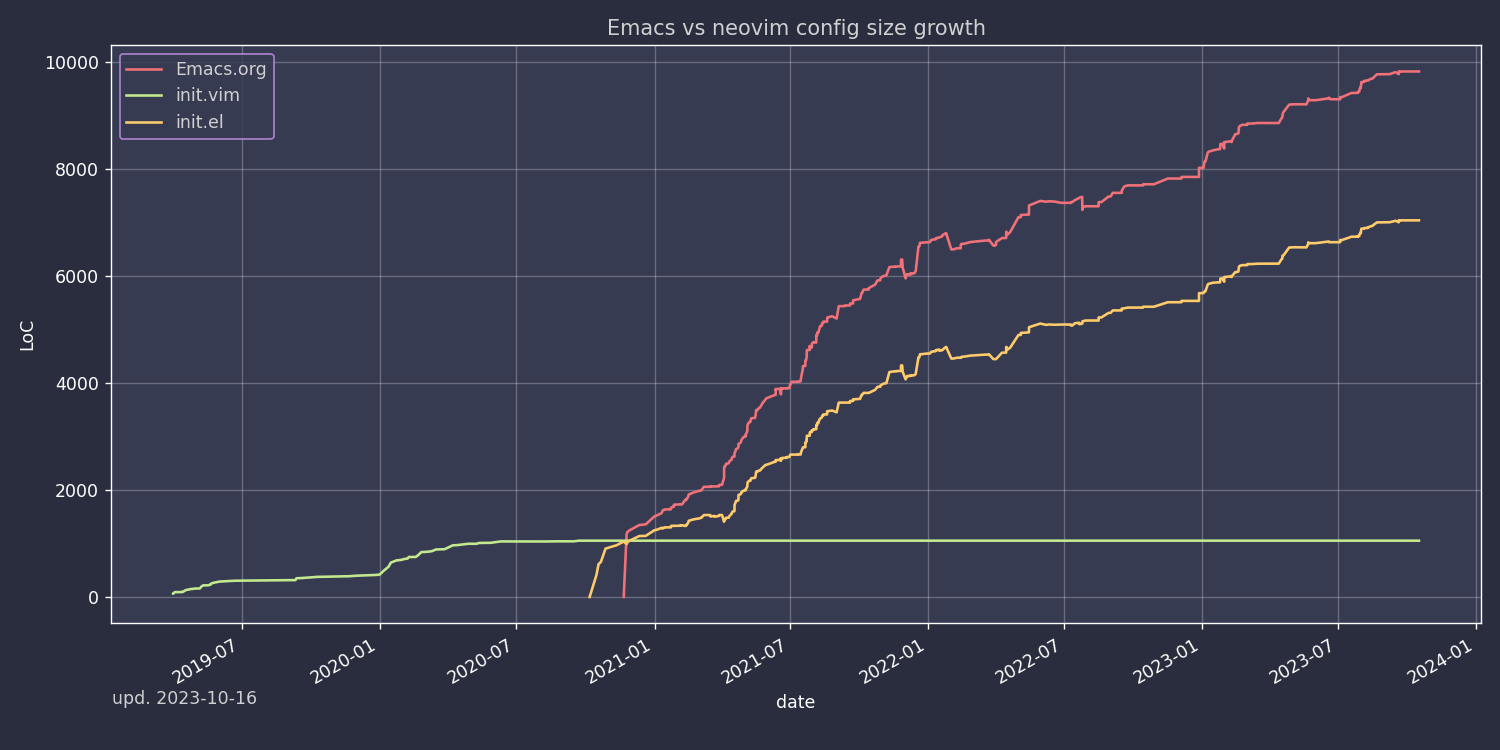
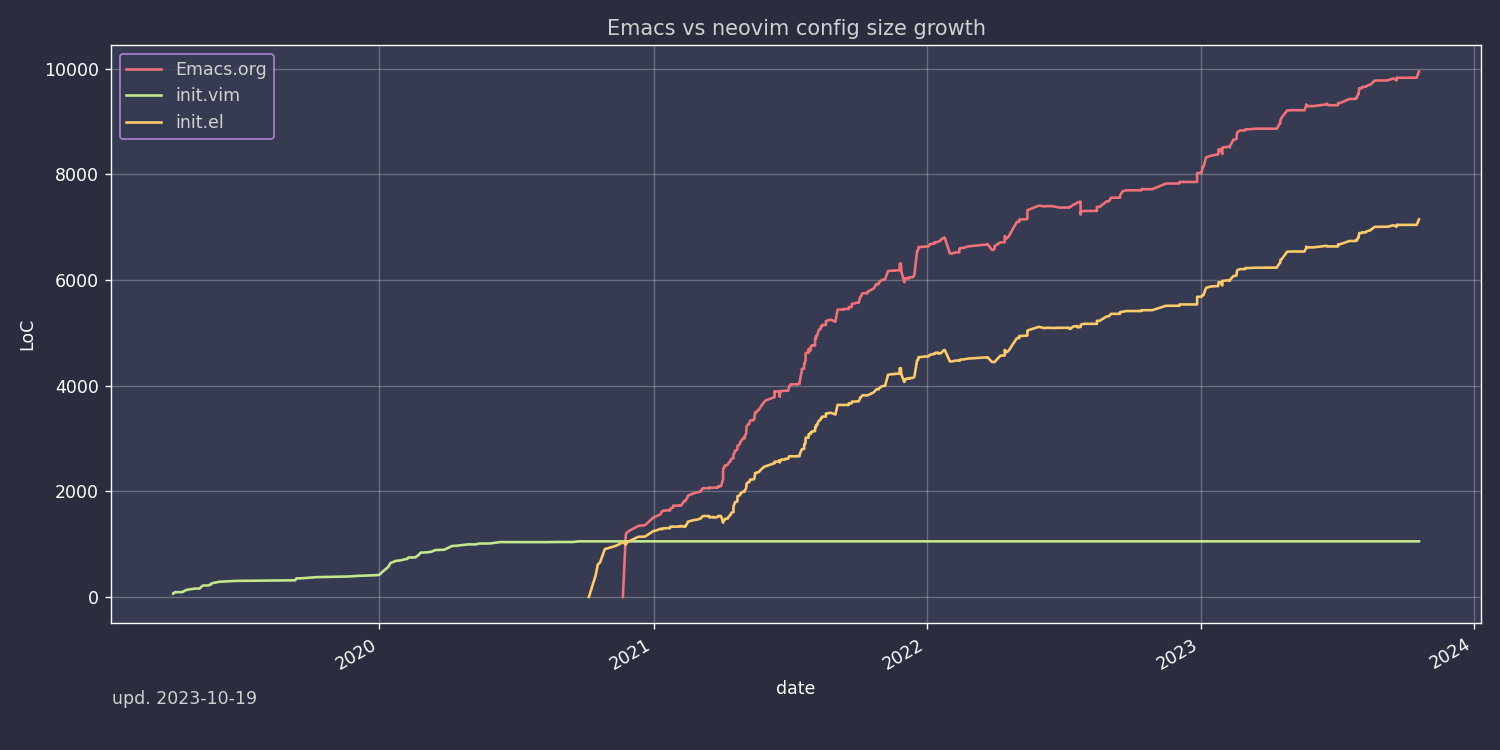
deploy: ec9d4f60e5a25ce1c0262b4c3c3db14015a5740e

diff --git a/configs/emacs/index.html b/configs/emacs/index.html
@@ -921,6 +921,12 @@ Emacs is also particularly great at writing Lisp code, e.g. Clojure, Common Lisp
 </span></span><span style="display:flex;"><span>   <span style="color:#ba2121">&#34;M-k&#34;</span> <span style="color:#00f">#&#39;</span><span style="color:#19177c">popup-previous</span>)
 </span></span><span style="display:flex;"><span>  (<span style="color:#008000">setq</span> <span style="color:#19177c">accent-custom</span> <span style="color:#666">&#39;</span>((<span style="color:#19177c">a</span> (<span style="color:#19177c">ā</span>))
 </span></span><span style="display:flex;"><span>			(<span style="color:#19177c">A</span> (<span style="color:#19177c">Ā</span>)))))
+</span></span></code></pre></div><h5 id="binky">binky</h5>
+<p>Experimenting with this package.</p>
+<div class="highlight"><pre tabindex="0" style=";-moz-tab-size:4;-o-tab-size:4;tab-size:4;"><code class="language-emacs-lisp" data-lang="emacs-lisp"><span style="display:flex;"><span>(<span style="color:#008000">use-package</span> <span style="color:#19177c">binky</span>
+</span></span><span style="display:flex;"><span>  <span style="color:#008000">:straight</span> <span style="color:#800">t</span>
+</span></span><span style="display:flex;"><span>  <span style="color:#008000">:init</span>
+</span></span><span style="display:flex;"><span>  (<span style="color:#19177c">my-leader-def</span> <span style="color:#ba2121">&#34;j&#34;</span> <span style="color:#00f">#&#39;</span><span style="color:#19177c">binky-binky</span>))
 </span></span></code></pre></div><h3 id="working-with-projects">Working with projects</h3>
 <p>Packages related to managing projects.</p>
 <p>I used to have <a href="https://github.com/Alexander-Miller/treemacs">Treemacs</a> here, but in the end decided that dired with <a href="https://github.com/jojojames/dired-sidebar">dired-sidebar</a> does a better job. Dired has its separate section in &ldquo;Applications&rdquo;.</p>
@@ -3985,11 +3991,31 @@ Emacs is also particularly great at writing Lisp code, e.g. Clojure, Common Lisp
 </span></span><span style="display:flex;"><span>		  <span style="color:#ba2121">&#34;\n&#34;</span>
 </span></span><span style="display:flex;"><span>		  <span style="color:#ba2121">&#34;* %?\n&#34;</span>
 </span></span><span style="display:flex;"><span>		  <span style="color:#ba2121">&#34;/Entered on/ %U&#34;</span>))))
+</span></span></code></pre></div><h5 id="org-super-agenda">org-super-agenda</h5>
+<p><a href="https://github.com/alphapapa/org-super-agenda">org-super-agenda</a> is alphapapa&rsquo;s extension to group items in org-agenda.</p>
+<div class="highlight"><pre tabindex="0" style=";-moz-tab-size:4;-o-tab-size:4;tab-size:4;"><code class="language-emacs-lisp" data-lang="emacs-lisp"><span style="display:flex;"><span>(<span style="color:#008000">use-package</span> <span style="color:#19177c">org-super-agenda</span>
+</span></span><span style="display:flex;"><span>  <span style="color:#008000">:straight</span> <span style="color:#800">t</span>
+</span></span><span style="display:flex;"><span>  <span style="color:#008000">:after</span> (<span style="color:#19177c">org</span>)
+</span></span><span style="display:flex;"><span>  <span style="color:#008000">:config</span>
+</span></span><span style="display:flex;"><span>  <span style="color:#408080;font-style:italic">;; Alphapapa doesn&#39;t like evil</span>
+</span></span><span style="display:flex;"><span>  (<span style="color:#19177c">general-define-key</span>
+</span></span><span style="display:flex;"><span>   <span style="color:#008000">:keymaps</span> <span style="color:#666">&#39;</span>(<span style="color:#19177c">org-super-agenda-header-map</span>)
+</span></span><span style="display:flex;"><span>   <span style="color:#ba2121">&#34;h&#34;</span> <span style="color:#800">nil</span>
+</span></span><span style="display:flex;"><span>   <span style="color:#ba2121">&#34;j&#34;</span> <span style="color:#800">nil</span>
+</span></span><span style="display:flex;"><span>   <span style="color:#ba2121">&#34;k&#34;</span> <span style="color:#800">nil</span>
+</span></span><span style="display:flex;"><span>   <span style="color:#ba2121">&#34;l&#34;</span> <span style="color:#800">nil</span>))
+</span></span></code></pre></div><p>It doesn&rsquo;t look great with org-bars mode, so&hellip;</p>
+<div class="highlight"><pre tabindex="0" style=";-moz-tab-size:4;-o-tab-size:4;tab-size:4;"><code class="language-emacs-lisp" data-lang="emacs-lisp"><span style="display:flex;"><span>(<span style="color:#008000">defun</span> <span style="color:#19177c">my/org-super-agenda--make-agenda-header-around</span> (<span style="color:#19177c">fun</span> <span style="color:#19177c">name</span>)
+</span></span><span style="display:flex;"><span>  (<span style="color:#00f">remove-text-properties</span> <span style="color:#666">0</span> (<span style="color:#00f">length</span> <span style="color:#19177c">name</span>) <span style="color:#666">&#39;</span>(<span style="color:#19177c">line-prefix</span> <span style="color:#800">nil</span>) <span style="color:#19177c">name</span>)
+</span></span><span style="display:flex;"><span>  (<span style="color:#00f">remove-text-properties</span> <span style="color:#666">0</span> (<span style="color:#00f">length</span> <span style="color:#19177c">name</span>) <span style="color:#666">&#39;</span>(<span style="color:#19177c">wrap-prefix</span> <span style="color:#800">nil</span>) <span style="color:#19177c">name</span>)
+</span></span><span style="display:flex;"><span>  (<span style="color:#00f">funcall</span> <span style="color:#19177c">fun</span> (<span style="color:#00f">substring-no-properties</span> <span style="color:#19177c">name</span>)))
+</span></span><span style="display:flex;"><span>
+</span></span><span style="display:flex;"><span>(<span style="color:#008000">with-eval-after-load</span> <span style="color:#19177c">&#39;org-super-agenda</span>
+</span></span><span style="display:flex;"><span>  (<span style="color:#19177c">advice-add</span> <span style="color:#19177c">&#39;org-super-agenda--make-agenda-header</span> <span style="color:#008000">:around</span> <span style="color:#00f">#&#39;</span><span style="color:#19177c">my/org-super-agenda--make-agenda-header-around</span>))
 </span></span></code></pre></div><h5 id="org-ql">org-ql</h5>
 <p><a href="https://github.com/alphapapa/org-ql">org-ql</a> is a package to query the org files. I&rsquo;ve tried using it for:</p>
 <ul>
 <li>Grabbing done tasks / meetings / etc for review workflow</li>
-<li>Adding Trello tasks into Agenga</li>
 </ul>
 <p>None of that worked out, but I&rsquo;ll keep the package here in case I have some more ideas.</p>
 <div class="highlight"><pre tabindex="0" style=";-moz-tab-size:4;-o-tab-size:4;tab-size:4;"><code class="language-emacs-lisp" data-lang="emacs-lisp"><span style="display:flex;"><span>(<span style="color:#008000">use-package</span> <span style="color:#19177c">org-ql</span>
@@ -4002,7 +4028,60 @@ Emacs is also particularly great at writing Lisp code, e.g. Clojure, Common Lisp
 </span></span><span style="display:flex;"><span>  <span style="color:#408080;font-style:italic">;; See https://github.com/alphapapa/org-ql/pull/237</span>
 </span></span><span style="display:flex;"><span>  (<span style="color:#008000">setq</span> <span style="color:#19177c">org-ql-regexp-part-ts-time</span>
 </span></span><span style="display:flex;"><span>	(<span style="color:#008000">rx</span> <span style="color:#ba2121">&#34; &#34;</span> (<span style="color:#19177c">repeat</span> <span style="color:#666">1</span> <span style="color:#666">2</span> <span style="color:#19177c">digit</span>) <span style="color:#ba2121">&#34;:&#34;</span> (<span style="color:#19177c">repeat</span> <span style="color:#666">2</span> <span style="color:#19177c">digit</span>)
-</span></span><span style="display:flex;"><span>	    (<span style="color:#19177c">optional</span> <span style="color:#ba2121">&#34;-&#34;</span> (<span style="color:#19177c">repeat</span> <span style="color:#666">1</span> <span style="color:#666">2</span> <span style="color:#19177c">digit</span>) <span style="color:#ba2121">&#34;:&#34;</span> (<span style="color:#19177c">repeat</span> <span style="color:#666">2</span> <span style="color:#19177c">digit</span>)))))
+</span></span><span style="display:flex;"><span>	    (<span style="color:#19177c">optional</span> <span style="color:#ba2121">&#34;-&#34;</span> (<span style="color:#19177c">repeat</span> <span style="color:#666">1</span> <span style="color:#666">2</span> <span style="color:#19177c">digit</span>) <span style="color:#ba2121">&#34;:&#34;</span> (<span style="color:#19177c">repeat</span> <span style="color:#666">2</span> <span style="color:#19177c">digit</span>))))
+</span></span><span style="display:flex;"><span>  )
+</span></span></code></pre></div><h5 id="link-tasks-to-meetings">Link tasks to meetings</h5>
+<div class="highlight"><pre tabindex="0" style=";-moz-tab-size:4;-o-tab-size:4;tab-size:4;"><code class="language-emacs-lisp" data-lang="emacs-lisp"><span style="display:flex;"><span>(<span style="color:#008000">defun</span> <span style="color:#19177c">my/org-meeting--prompt</span> ()
+</span></span><span style="display:flex;"><span>  (<span style="color:#008000">let*</span> ((<span style="color:#19177c">meetings</span> (<span style="color:#19177c">org-ql-query</span>
+</span></span><span style="display:flex;"><span>		     <span style="color:#008000">:select</span> <span style="color:#00f">#&#39;</span><span style="color:#19177c">element-with-markers</span>
+</span></span><span style="display:flex;"><span>		     <span style="color:#008000">:from</span> (<span style="color:#19177c">org-agenda-files</span>)
+</span></span><span style="display:flex;"><span>		     <span style="color:#008000">:where</span> <span style="color:#666">&#39;</span>(<span style="color:#008000">and</span> (<span style="color:#19177c">todo</span>) (<span style="color:#19177c">tags</span> <span style="color:#ba2121">&#34;mt&#34;</span>) (<span style="color:#19177c">ts-active</span> <span style="color:#008000">:from</span> <span style="color:#19177c">today</span> <span style="color:#19177c">to</span> <span style="color:#666">31</span>))
+</span></span><span style="display:flex;"><span>		     <span style="color:#008000">:order-by</span> <span style="color:#19177c">&#39;scheduled</span>))
+</span></span><span style="display:flex;"><span>	 (<span style="color:#19177c">data</span> (<span style="color:#00f">mapcar</span>
+</span></span><span style="display:flex;"><span>		(<span style="color:#008000">lambda</span> (<span style="color:#19177c">meeting</span>)
+</span></span><span style="display:flex;"><span>		  (<span style="color:#008000">let</span> ((<span style="color:#19177c">raw-value</span> (<span style="color:#19177c">org-element-property</span> <span style="color:#008000">:raw-value</span> <span style="color:#19177c">meeting</span>))
+</span></span><span style="display:flex;"><span>			(<span style="color:#19177c">scheduled</span> (<span style="color:#19177c">org-format-timestamp</span>
+</span></span><span style="display:flex;"><span>				    (<span style="color:#19177c">org-element-property</span> <span style="color:#008000">:scheduled</span> <span style="color:#19177c">meeting</span>)
+</span></span><span style="display:flex;"><span>				    (<span style="color:#00f">cdr</span> <span style="color:#19177c">org-time-stamp-formats</span>))))
+</span></span><span style="display:flex;"><span>		    (<span style="color:#00f">cons</span> (<span style="color:#00f">format</span> <span style="color:#ba2121">&#34;%-30s %s&#34;</span> <span style="color:#19177c">raw-value</span>
+</span></span><span style="display:flex;"><span>				  (<span style="color:#00f">propertize</span> <span style="color:#19177c">scheduled</span> <span style="color:#19177c">&#39;face</span> <span style="color:#19177c">&#39;org-agenda-date</span>))
+</span></span><span style="display:flex;"><span>			  <span style="color:#19177c">meeting</span>)))
+</span></span><span style="display:flex;"><span>		<span style="color:#19177c">meetings</span>))
+</span></span><span style="display:flex;"><span>	 (<span style="color:#19177c">ivy-prescient-sort-commands</span> <span style="color:#800">nil</span>))
+</span></span><span style="display:flex;"><span>    (<span style="color:#00f">cdr</span>
+</span></span><span style="display:flex;"><span>     (<span style="color:#00f">assoc</span>
+</span></span><span style="display:flex;"><span>      (<span style="color:#00f">completing-read</span> <span style="color:#ba2121">&#34;Meeting: &#34;</span> <span style="color:#19177c">data</span> <span style="color:#800">nil</span> <span style="color:#800">t</span>)
+</span></span><span style="display:flex;"><span>      <span style="color:#19177c">data</span>))))
+</span></span><span style="display:flex;"><span>
+</span></span><span style="display:flex;"><span>(<span style="color:#008000">defun</span> <span style="color:#19177c">my/org-meeting--format-link</span> (<span style="color:#19177c">meeting</span>)
+</span></span><span style="display:flex;"><span>  (<span style="color:#00f">format</span> <span style="color:#ba2121">&#34;[[file:%s::*%s][%s]]&#34;</span>
+</span></span><span style="display:flex;"><span>	  (<span style="color:#00f">buffer-file-name</span>
+</span></span><span style="display:flex;"><span>	   (<span style="color:#00f">marker-buffer</span>
+</span></span><span style="display:flex;"><span>	    (<span style="color:#19177c">org-element-property</span> <span style="color:#008000">:org-marker</span> <span style="color:#19177c">meeting</span>)))
+</span></span><span style="display:flex;"><span>	  (<span style="color:#19177c">org-element-property</span> <span style="color:#008000">:raw-value</span> <span style="color:#19177c">meeting</span>)
+</span></span><span style="display:flex;"><span>	  (<span style="color:#19177c">org-element-property</span> <span style="color:#008000">:raw-value</span> <span style="color:#19177c">meeting</span>)))
+</span></span><span style="display:flex;"><span>
+</span></span><span style="display:flex;"><span>(<span style="color:#008000">defun</span> <span style="color:#19177c">my/org-meeting-link</span> ()
+</span></span><span style="display:flex;"><span>  (<span style="color:#008000">interactive</span>)
+</span></span><span style="display:flex;"><span>  (<span style="color:#008000">let</span> ((<span style="color:#19177c">meeting</span> (<span style="color:#19177c">my/org-meeting--prompt</span>)))
+</span></span><span style="display:flex;"><span>    (<span style="color:#19177c">org-set-property</span> <span style="color:#ba2121">&#34;MEETING&#34;</span> (<span style="color:#19177c">my/org-meeting--format-link</span> <span style="color:#19177c">meeting</span>))))
+</span></span><span style="display:flex;"><span>
+</span></span><span style="display:flex;"><span>(<span style="color:#008000">defun</span> <span style="color:#19177c">my/org-ql-meeting-tasks</span> (<span style="color:#19177c">meeting</span>)
+</span></span><span style="display:flex;"><span>  (<span style="color:#008000">interactive</span> (<span style="color:#00f">list</span> (<span style="color:#19177c">my/org-meeting--prompt</span>)))
+</span></span><span style="display:flex;"><span>  (<span style="color:#19177c">org-ql-search</span> (<span style="color:#19177c">org-agenda-files</span>)
+</span></span><span style="display:flex;"><span>    <span style="color:#666">`</span>(<span style="color:#19177c">property</span> <span style="color:#ba2121">&#34;MEETING&#34;</span> <span style="color:#666">,</span>(<span style="color:#19177c">my/org-meeting--format-link</span> <span style="color:#19177c">meeting</span>))
+</span></span><span style="display:flex;"><span>    <span style="color:#008000">:sort</span> <span style="color:#666">&#39;</span>(<span style="color:#19177c">date</span> <span style="color:#19177c">priority</span> <span style="color:#19177c">todo</span>)
+</span></span><span style="display:flex;"><span>    <span style="color:#008000">:buffer</span> (<span style="color:#00f">format</span> <span style="color:#ba2121">&#34;*Meeting Tasks: %s*&#34;</span> (<span style="color:#19177c">org-element-property</span> <span style="color:#008000">:raw-value</span> <span style="color:#19177c">meeting</span>))
+</span></span><span style="display:flex;"><span>    <span style="color:#008000">:super-groups</span> <span style="color:#666">&#39;</span>((<span style="color:#008000">:auto-outline-path</span> <span style="color:#800">t</span>))))
+</span></span><span style="display:flex;"><span>
+</span></span><span style="display:flex;"><span>(<span style="color:#008000">defun</span> <span style="color:#19177c">my/org-ql-meeting-tasks-agenda</span> ()
+</span></span><span style="display:flex;"><span>  (<span style="color:#008000">interactive</span>)
+</span></span><span style="display:flex;"><span>  (<span style="color:#008000">let</span> ((<span style="color:#19177c">meeting</span> (<span style="color:#008000">save-window-excursion</span>
+</span></span><span style="display:flex;"><span>		   (<span style="color:#19177c">org-agenda-switch-to</span>)
+</span></span><span style="display:flex;"><span>		   (<span style="color:#19177c">org-back-to-heading</span>)
+</span></span><span style="display:flex;"><span>		   (<span style="color:#19177c">org-ql--add-markers</span>
+</span></span><span style="display:flex;"><span>		    (<span style="color:#19177c">org-element-at-point</span>)))))
+</span></span><span style="display:flex;"><span>    (<span style="color:#19177c">my/org-ql-meeting-tasks</span> <span style="color:#19177c">meeting</span>)))
 </span></span></code></pre></div><h5 id="tracking-habits">Tracking habits</h5>
 <p>Let&rsquo;s see how this goes.</p>
 <p>References:</p>
@@ -4914,6 +4993,31 @@ Didn&rsquo;t work out as I expected, so I&rsquo;ve made <code>org-journal-tags</
 </span></span><span style="display:flex;"><span>(<span style="color:#008000">use-package</span> <span style="color:#19177c">calfw-org</span>
 </span></span><span style="display:flex;"><span>  <span style="color:#008000">:after</span> (<span style="color:#19177c">calfw</span> <span style="color:#19177c">org</span>)
 </span></span><span style="display:flex;"><span>  <span style="color:#008000">:straight</span> <span style="color:#800">t</span>)
+</span></span></code></pre></div><h4 id="org-timeblock">org-timeblock</h4>
+<div class="highlight"><pre tabindex="0" style=";-moz-tab-size:4;-o-tab-size:4;tab-size:4;"><code class="language-emacs-lisp" data-lang="emacs-lisp"><span style="display:flex;"><span>(<span style="color:#008000">defun</span> <span style="color:#19177c">my/org-timeblock-conf</span> ()
+</span></span><span style="display:flex;"><span>  (<span style="color:#19177c">display-line-numbers-mode</span> <span style="color:#666">-1</span>))
+</span></span><span style="display:flex;"><span>
+</span></span><span style="display:flex;"><span>(<span style="color:#008000">use-package</span> <span style="color:#19177c">org-timeblock</span>
+</span></span><span style="display:flex;"><span>  <span style="color:#008000">:straight</span> (<span style="color:#008000">:host</span> <span style="color:#19177c">github</span> <span style="color:#008000">:repo</span> <span style="color:#ba2121">&#34;ichernyshovvv/org-timeblock&#34;</span>)
+</span></span><span style="display:flex;"><span>  <span style="color:#008000">:commands</span> (<span style="color:#19177c">org-timeblock-mode</span>)
+</span></span><span style="display:flex;"><span>  <span style="color:#008000">:init</span>
+</span></span><span style="display:flex;"><span>  (<span style="color:#19177c">my-leader-def</span> <span style="color:#ba2121">&#34;ot&#34;</span> <span style="color:#00f">#&#39;</span><span style="color:#19177c">org-timeblock</span>)
+</span></span><span style="display:flex;"><span>  <span style="color:#008000">:config</span>
+</span></span><span style="display:flex;"><span>  (<span style="color:#19177c">add-hook</span> <span style="color:#19177c">&#39;org-timeblock-mode-hook</span> <span style="color:#00f">#&#39;</span><span style="color:#19177c">my/org-timeblock-conf</span>)
+</span></span><span style="display:flex;"><span>  (<span style="color:#19177c">general-define-key</span>
+</span></span><span style="display:flex;"><span>   <span style="color:#008000">:keymaps</span> <span style="color:#666">&#39;</span>(<span style="color:#19177c">org-timeblock-mode-map</span>)
+</span></span><span style="display:flex;"><span>   <span style="color:#008000">:states</span> <span style="color:#666">&#39;</span>(<span style="color:#19177c">normal</span> <span style="color:#19177c">visual</span>)
+</span></span><span style="display:flex;"><span>   <span style="color:#ba2121">&#34;j&#34;</span> <span style="color:#00f">#&#39;</span><span style="color:#19177c">org-timeblock-forward-block</span>
+</span></span><span style="display:flex;"><span>   <span style="color:#ba2121">&#34;h&#34;</span> <span style="color:#00f">#&#39;</span><span style="color:#19177c">org-timeblock-backward-column</span>
+</span></span><span style="display:flex;"><span>   <span style="color:#ba2121">&#34;l&#34;</span> <span style="color:#00f">#&#39;</span><span style="color:#19177c">org-timeblock-forward-column</span>
+</span></span><span style="display:flex;"><span>   <span style="color:#ba2121">&#34;k&#34;</span> <span style="color:#00f">#&#39;</span><span style="color:#19177c">org-timeblock-backward-block</span>
+</span></span><span style="display:flex;"><span>   <span style="color:#ba2121">&#34;M-[&#34;</span> <span style="color:#00f">#&#39;</span><span style="color:#19177c">org-timeblock-day-earlier</span>
+</span></span><span style="display:flex;"><span>   <span style="color:#ba2121">&#34;M-]&#34;</span> <span style="color:#00f">#&#39;</span><span style="color:#19177c">org-timeblock-day-later</span>
+</span></span><span style="display:flex;"><span>   <span style="color:#ba2121">&#34;H&#34;</span> <span style="color:#00f">#&#39;</span><span style="color:#19177c">org-timeblock-day-earlier</span>
+</span></span><span style="display:flex;"><span>   <span style="color:#ba2121">&#34;L&#34;</span> <span style="color:#00f">#&#39;</span><span style="color:#19177c">org-timeblock-day-later</span>
+</span></span><span style="display:flex;"><span>   <span style="color:#ba2121">&#34;RET&#34;</span> <span style="color:#00f">#&#39;</span><span style="color:#19177c">org-timeblock-goto</span>
+</span></span><span style="display:flex;"><span>   <span style="color:#ba2121">&#34;t&#34;</span> <span style="color:#00f">#&#39;</span><span style="color:#19177c">org-timeblock-todo-set</span>
+</span></span><span style="display:flex;"><span>   <span style="color:#ba2121">&#34;q&#34;</span> <span style="color:#00f">#&#39;</span><span style="color:#19177c">quit-window</span>))
 </span></span></code></pre></div><h3 id="ui-1">UI</h3>
 <h4 id="latex-fragments">LaTeX fragments</h4>
 <p>A function to enable LaTeX native highlighting. Not setting this as default, because it loads LaTeX stuff.</p>
@@ -8801,6 +8905,7 @@ I&rsquo;ve seen a couple of cases where people would swap their username and ema
             <li><a href="#review-workflow-1">Review workflow</a></li>
             <li><a href="#contacts">Contacts</a></li>
             <li><a href="#calendar-view">Calendar view</a></li>
+            <li><a href="#org-timeblock">org-timeblock</a></li>
           </ul>
         </li>
         <li><a href="#ui-1">UI</a>
